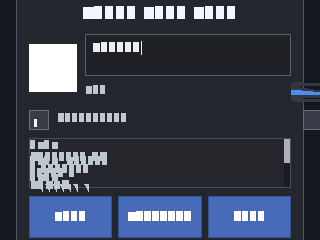
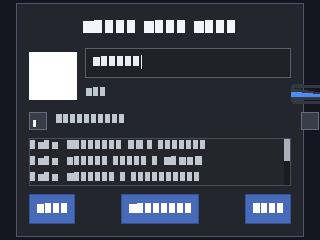
fix CI: update UI unit expectations and goldens for border-box layout
The Clay border-box POINT mapping made content-box unit assertions and
stale widget/menu goldens fail on Debug sk-tests (Linux/macOS). Align
row size and scroll-clamp checks with outer sizes, and bless sample and
widget goldens for the new layout.

diff --git a/plugins/ui/clay_adapter.c b/plugins/ui/clay_adapter.c
@@ -1455,15 +1455,15 @@ SK_TEST(ui_clay_panel_row_and_stable_ids) {
 
 	TEST_ASSERT_EQUAL_INT(0, ui->node_get_layout_rect(ctx, left, &rl, NULL));
 	TEST_ASSERT_EQUAL_INT(0, ui->node_get_layout_rect(ctx, right, &rr, NULL));
-	/* Content-box: style 80x40 + button default pad(6)*2 + border(1)*2 = 94x54. */
-	ui_clay_assert_rect_near(&rl, 0.0f, 0.0f, 94.0f, 54.0f);
-	ui_clay_assert_rect_near(&rr, 94.0f, 0.0f, 94.0f, 54.0f);
+	/* Border-box: style POINT 80x40 is the outer size (pad/border sit inside). */
+	ui_clay_assert_rect_near(&rl, 0.0f, 0.0f, 80.0f, 40.0f);
+	ui_clay_assert_rect_near(&rr, 80.0f, 0.0f, 80.0f, 40.0f);
 
 	/* Stable string ids resolve through Clay after the layout pass. */
 	eid = Clay_GetElementId(ui_clay_cstr("row-left"));
 	ed = Clay_GetElementData(eid);
 	TEST_ASSERT_TRUE(ed.found);
-	TEST_ASSERT_FLOAT_WITHIN(1.0f, 94.0f, ed.boundingBox.width);
+	TEST_ASSERT_FLOAT_WITHIN(1.0f, 80.0f, ed.boundingBox.width);
 
 	ui->context_destroy(ctx);
 }
@@ -2218,7 +2218,7 @@ SK_TEST(ui_clay_scroll_container_stable_id_and_offset) {
 	eid_sv = Clay_GetElementId(ui_clay_cstr("apx236-sv"));
 	ed = Clay_GetElementData(eid_sv);
 	TEST_ASSERT_TRUE(ed.found);
-	/* Content-box: style 100 + border 0 = 100. */
+	/* Border-box: style POINT width 100 is outer size. */
 	TEST_ASSERT_FLOAT_WITHIN(1.0f, 100.0f, ed.boundingBox.width);
 
 	id_hash = eid_sv.id;

diff --git a/plugins/ui/widgets.c b/plugins/ui/widgets.c
@@ -2883,7 +2883,8 @@ SK_TEST(ui_widget_scroll_view_wheel_and_clamp) {
 	TEST_ASSERT_TRUE(sy > 0.0f);
 	TEST_ASSERT_EQUAL_INT(0, ui->scroll_view_set_scroll(ctx, sv, 0.0f, 9999.0f));
 	TEST_ASSERT_EQUAL_INT(0, ui->scroll_view_get_scroll(ctx, sv, &sx, &sy));
-	TEST_ASSERT_FLOAT_WITHIN(0.5f, 140.0f, sy); /* 200-60 */
+	/* Border-box 60h with 1px top/bottom border → content viewport 58; max = 200-58. */
+	TEST_ASSERT_FLOAT_WITHIN(0.5f, 142.0f, sy);
 	ui->context_destroy(ctx);
 }
 
